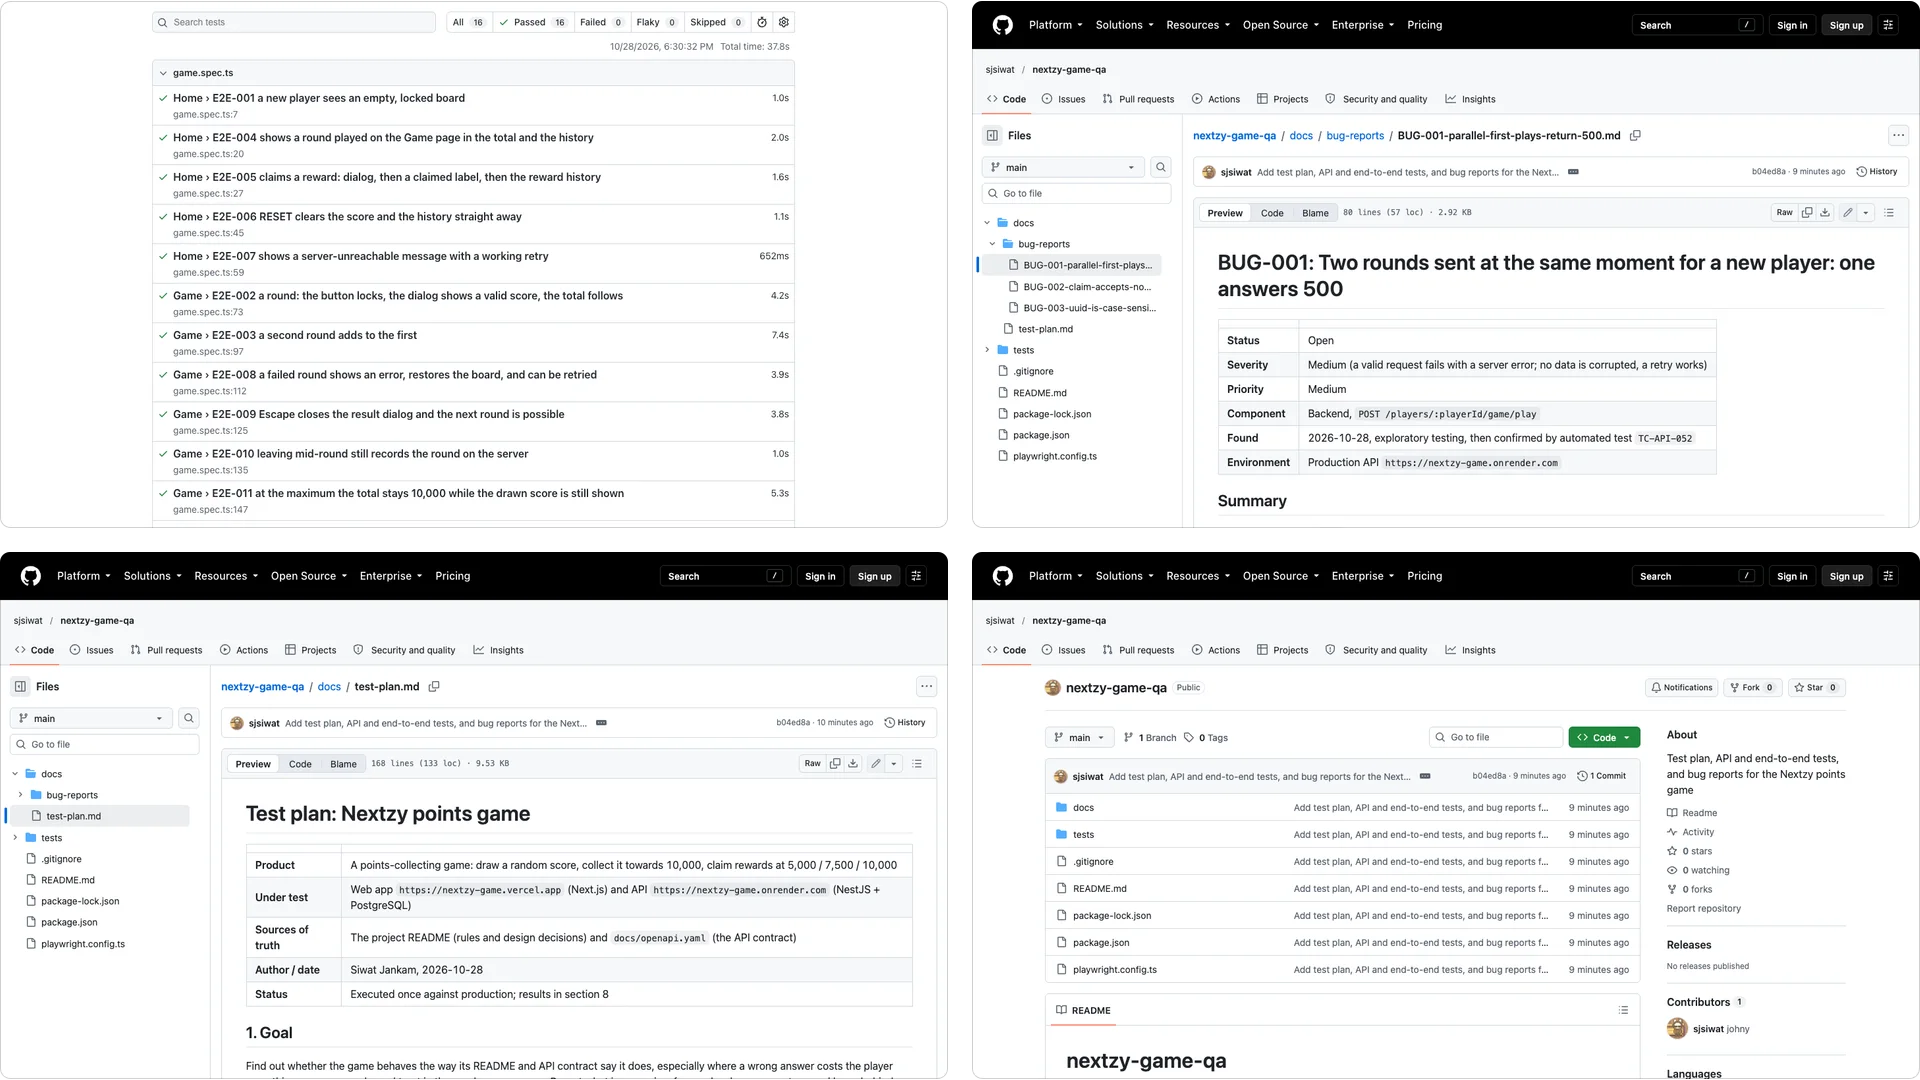
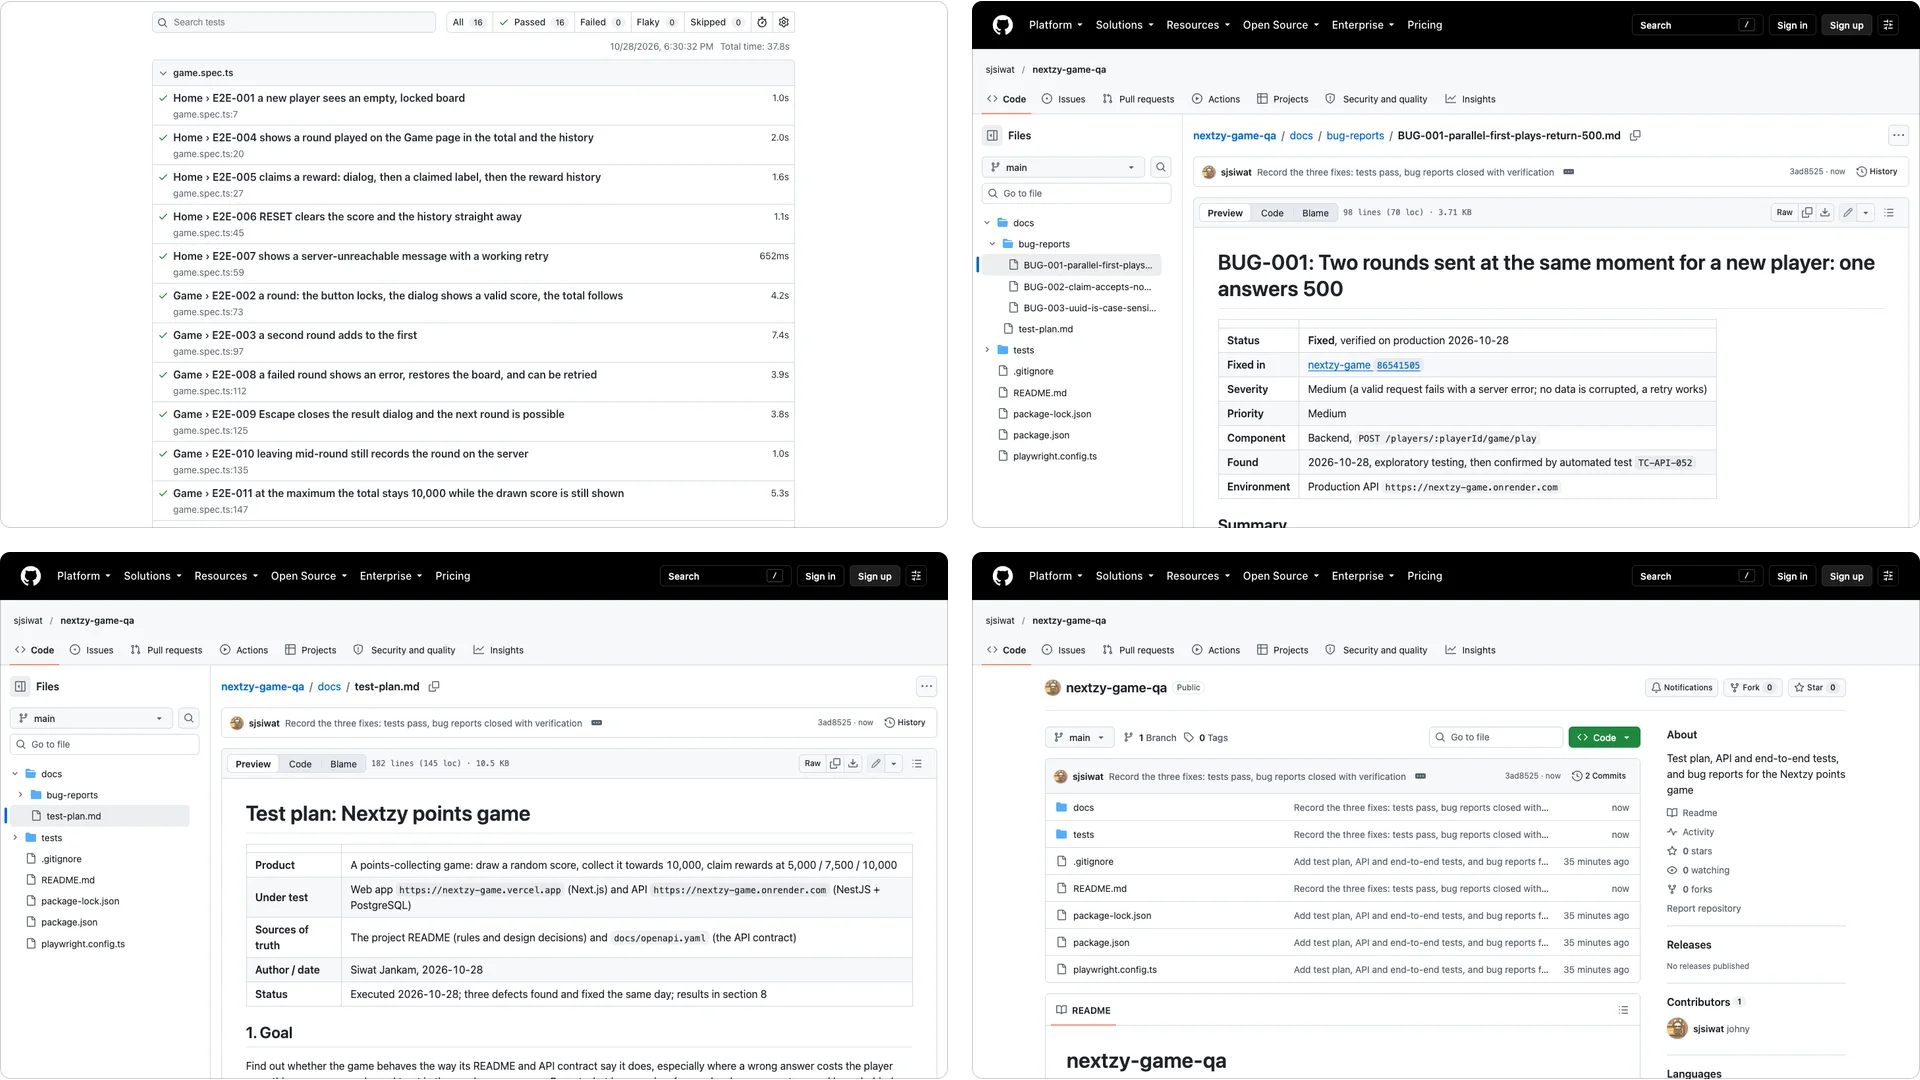
Update the Points Game QA story: defects fixed and verified on production
Refresh the card, case study and experience bullet with the fix cycle and the 30/30 to 0/30 result, and recapture the repo screenshots so BUG-001 shows as Fixed.

diff --git a/work/nextzy-game-qa.html b/work/nextzy-game-qa.html
@@ -5,7 +5,7 @@
   <meta charset="UTF-8" />
   <meta name="viewport" content="width=device-width, initial-scale=1.0" />
   <title>Points Game QA — Case Study | Siwat Jankam</title>
-  <meta name="description" content="How I tested my own points game: a test plan, 62 API tests and 16 browser tests, and the three defects they found, the worst a 500 when two rounds hit a brand-new player at once." />
+  <meta name="description" content="How I tested my own points game: a test plan, 63 API tests and 16 browser tests, and the three defects they found, the worst a 500 when two rounds hit a brand-new player at once, and how they were fixed and re-verified." />
   <link rel="stylesheet" href="../style.css" />
   <script>
     try {
@@ -94,8 +94,8 @@
           <p class="hero__kicker">Case Study</p>
           <h1 class="section-title case-title">Points Game QA <span class="accent">— testing my own game</span></h1>
           <p class="t-lead case-dek">
-            A test plan, 62 API tests and 16 browser tests for the game I built, written as if
-            someone else had built it. What held up, what broke, and what I couldn't check.
+            A test plan, 63 API tests and 16 browser tests for the game I built, written as if
+            someone else had built it. What held up, what broke, how it was fixed, and what I couldn't check.
           </p>
           <p class="project__meta case-meta">
             <span>QA + test automation</span><span>Solo</span><span>2026</span><span>Public repository</span>
@@ -190,7 +190,7 @@
                 <h3 class="decision__title">API tests first, browser tests second</h3>
                 <p class="decision__why t-body">
                   The server owns the rules (the draw, the 10,000 cap, claim-once), so most of the
-                  weight sits there: 62 fast tests with no dependencies. The 16 browser tests cover
+                  weight sits there: 63 fast tests with no dependencies. The 16 browser tests cover
                   the flows, and they check the screen against what the server says it drew.
                 </p>
                 <p class="decision__tradeoff"><span>Trade-off</span>Browser tests are slower (the round animation alone is several seconds) and depend on the live deployment being up.</p>
@@ -219,7 +219,7 @@
                   evidence, but it doesn't turn the suite red. When the bug is fixed the test
                   passes and the marker comes off.
                 </p>
-                <p class="decision__tradeoff"><span>Trade-off</span>It only works if someone reads the todo count. Nine todos for three bugs is written in the README so it can't drift quietly.</p>
+                <p class="decision__tradeoff"><span>Trade-off</span>It only works if someone reads the todo count. I wrote "nine todos for three bugs" in the README; when the fixes landed all nine flipped to passing and the markers came off.</p>
               </div>
             </div>
 
@@ -256,9 +256,11 @@
                 Measured it instead of describing it, then wrote the bug report: steps to
                 reproduce, expected and actual, the table of how often, who can actually hit it
                 (the web app locks the button during a round, so mostly API clients or two tabs),
-                and a suggested fix. My hypothesis is a race when two transactions both try to
-                create the player, hidden behind a generic 500. I had no server logs, so the report
-                says it is a hypothesis.
+                and a suggested fix. My hypothesis was a race when two transactions both try to
+                create the player, hidden behind a generic 500. Production gave me no logs, so
+                the report said it was a hypothesis, until I reproduced it against a local copy
+                of the original code and read the line it logged:
+                <code>Unique constraint failed on the constraint: Player_pkey</code>.
               </p>
             </div>
             <div class="incident">
@@ -267,8 +269,23 @@
                 The claim endpoint treats <code>5e3</code>, <code>0x1388</code> and
                 <code>+5000</code> as checkpoint 5000, although the contract says integer. And the
                 same UUID in upper case is a different player. Both low severity. I checked what
-                the first one could cost: a second claim through any spelling is still refused with
-                409, so claim-once holds.
+                the first one could cost: a second claim through any spelling was still refused
+                with 409, so claim-once held.
+              </p>
+            </div>
+            <div class="incident">
+              <span class="incident__label">The fix</span>
+              <p class="t-body">
+                The player was created with an upsert, which checks and then inserts, so two
+                simultaneous first rounds both tried to insert. It became one
+                <code>INSERT &hellip; ON CONFLICT DO NOTHING</code>. The claim endpoint now converts
+                the checkpoint only when it is exactly <code>5000</code>, <code>7500</code> or
+                <code>10000</code>, and the player id is lower-cased. The two input fixes came with
+                unit tests that fail on the old code; the race is covered by the API test. Re-running everything against the redeployed
+                production, the trial that failed <strong>30 of 30</strong> times now fails
+                <strong>0 of 30</strong>, and a burst of 25 went from 28 failed requests in 100 to
+                none. One of my own tests had asserted the old behaviour (a 409 for
+                <code>5e3</code>); it now asserts the correct 400, because the product changed.
               </p>
             </div>
             <div class="incident">
@@ -295,14 +312,15 @@
           <h2 class="section-title">Where it <span class="accent">landed</span></h2>
           <div class="reveal">
             <p class="t-body">
-              78 automated tests: 53 of 62 API tests pass and the other 9 are the open defects,
-              and all 16 browser tests pass. The rules that matter most held. A reward can't be
-              claimed twice, even by ten simultaneous requests. Parallel rounds for an existing
-              player never lost a point. The cap, reset and 100-row history limit all behave as
-              documented, and the screen agrees with the server.
+              79 automated tests, all passing: 63 API and 16 browser. The rules that mattered most
+              held from the first run. A reward can't be claimed twice, even by ten simultaneous
+              requests. Parallel rounds for an existing player never lost a point. The cap, reset
+              and 100-row history limit all behave as documented, and the screen agrees with the
+              server. The three defects it found were then fixed in the game and re-verified on
+              production.
             </p>
             <p class="case-status">
-              <span class="status"><i class="status__dot" aria-hidden="true"></i>Public repository &middot; 3 defects reported, none fixed yet</span>
+              <span class="status"><i class="status__dot" aria-hidden="true"></i>Public repository &middot; 3 defects found, fixed and verified on production</span>
             </p>
           </div>
 
@@ -317,7 +335,7 @@
               <div class="case-figure img-reveal">
                 <img src="../project-images/qa-bug.webp" alt="BUG-001 as rendered on GitHub: status, severity, component and summary" loading="lazy" />
               </div>
-              <figcaption>BUG-001, the worst of the three, written up for a developer to act on</figcaption>
+              <figcaption>BUG-001, the worst of the three: written up, then closed with the commit that fixed it</figcaption>
             </figure>
             <figure>
               <div class="case-figure img-reveal">
@@ -341,7 +359,7 @@
           <h2 class="section-title">What I'd do <span class="accent">differently</span></h2>
           <div class="reveal">
             <ul class="tl-list">
-              <li>Run the same suite against a local copy as well, so I can read the server logs and confirm the cause of the 500 instead of reporting a hypothesis.</li>
+              <li>Run the suite against a local copy from the start, not only after a failure. I read the server log and confirmed the cause of the 500 only once production had already shown me the symptom.</li>
               <li>Put the API tests on a schedule in CI, with a warm-up request first so the cold start doesn't look like a failure.</li>
               <li>Cover Safari and Firefox. Everything ran in Chrome, so the <code>&lt;dialog&gt;</code> behaviour and layout elsewhere are untested.</li>
               <li>Add a light load check on a local instance. I left it out of production on purpose, which also means it isn't covered at all.</li>

diff --git a/index.html b/index.html
@@ -454,10 +454,11 @@
               <div class="project__text">
                 <p class="project__lead">I tested my own game as if someone else had built it.</p>
                 <p class="project__desc">
-                  A test plan, 62 API tests and 16 browser tests for the points game below, written
+                  A test plan, 63 API tests and 16 browser tests for the points game below, written
                   against its README and API contract. The rules that matter held; it also found
                   three defects, the worst a 500 when two rounds hit a brand-new player at once
-                  (30 of 30 trials). Each is written up with steps, impact and a suggested fix.
+                  (30 of 30 trials). I wrote each up, fixed them in the game, and re-ran everything
+                  on production: that trial now fails 0 of 30.
                 </p>
                 <p class="project__craft" aria-label="What I handled on this project">
                   <span>Test plan</span><span>Exploratory testing</span><span>API tests</span><span>End-to-end tests</span><span>Bug reports</span>
@@ -708,7 +709,7 @@
                     <li>Rebuilt a serverless visitor-counter API on <strong>Cloudflare Workers + D1</strong>, migrating off AWS Lambda + DynamoDB to cut cost and operational overhead.</li>
                     <li>Deployed <strong>siwat.me</strong> on AWS S3 + CloudFront + ACM, later moved to Cloudflare Pages with GitHub-triggered auto-deploy.</li>
                     <li>Built <strong>MDflow</strong>, a PDF-to-Markdown pipeline (n8n, Docker, Google Drive API, Gemini); bypassed a broken library node by calling the Drive API v3 directly over OAuth.</li>
-                    <li>Wrote a <strong>test plan, 62 API tests and 16 Playwright tests</strong> for my own points game and reported three defects, including a 500 on parallel first rounds that failed 30 of 30 trials.</li>
+                    <li>Wrote a <strong>test plan, 63 API tests and 16 Playwright tests</strong> for my own points game, reported three defects (including a 500 on parallel first rounds that failed 30 of 30 trials), then fixed them and verified the fix on production.</li>
                     </ul>
                   </div>
                 </article>
